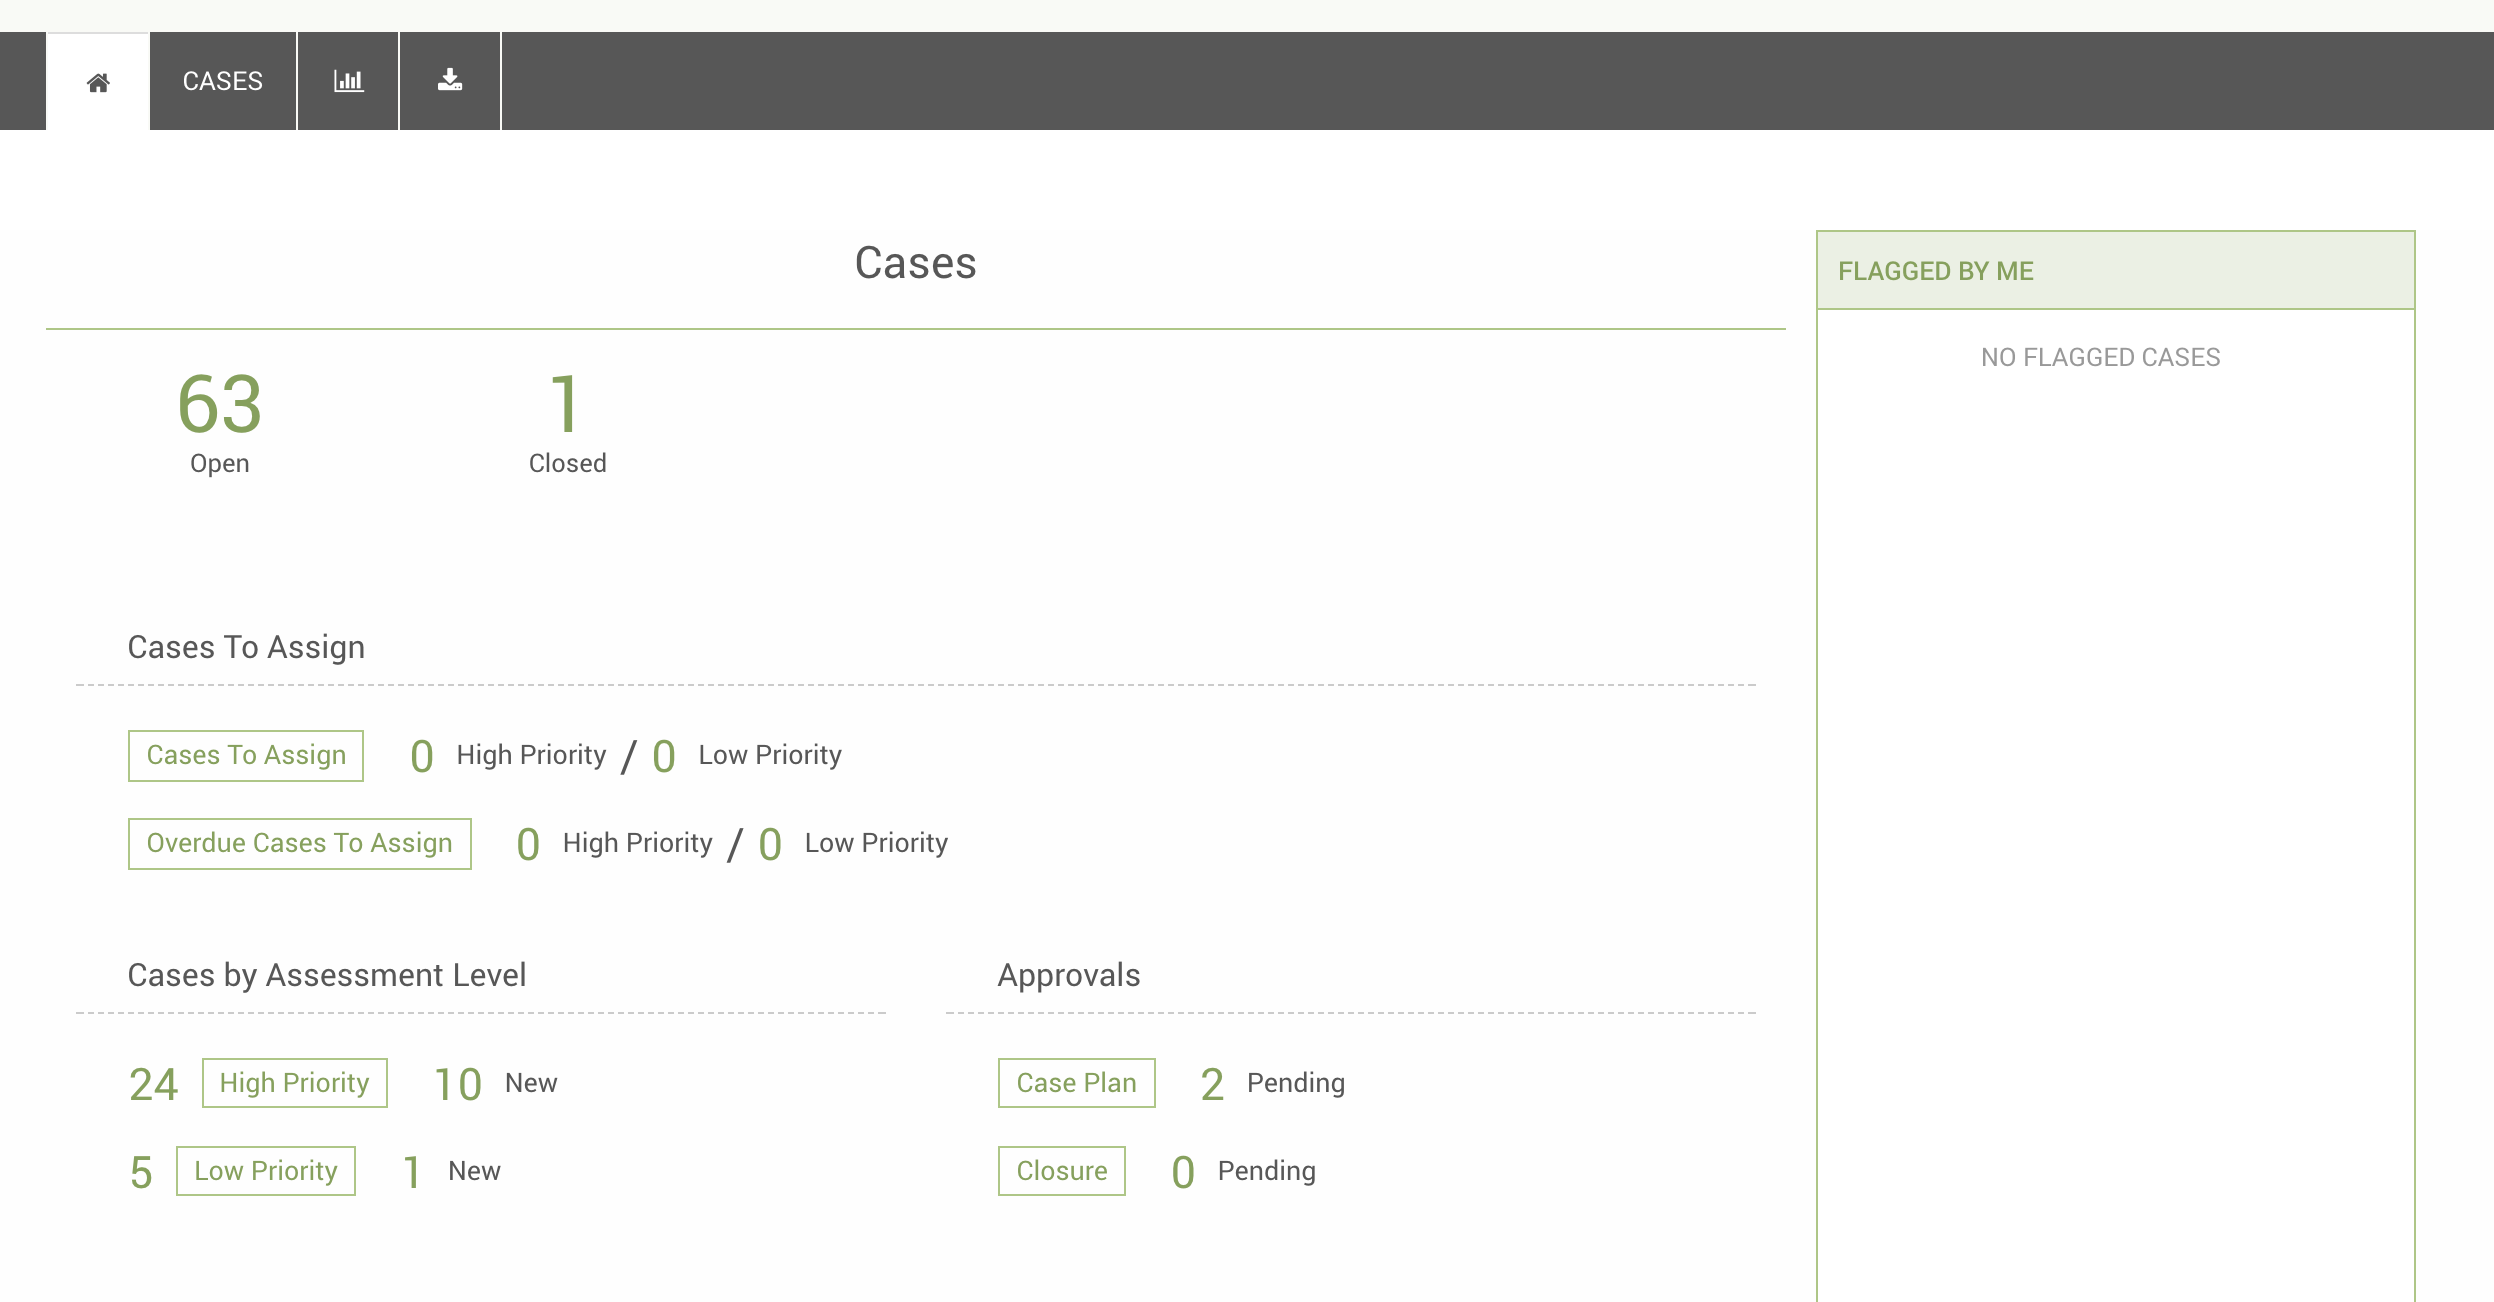
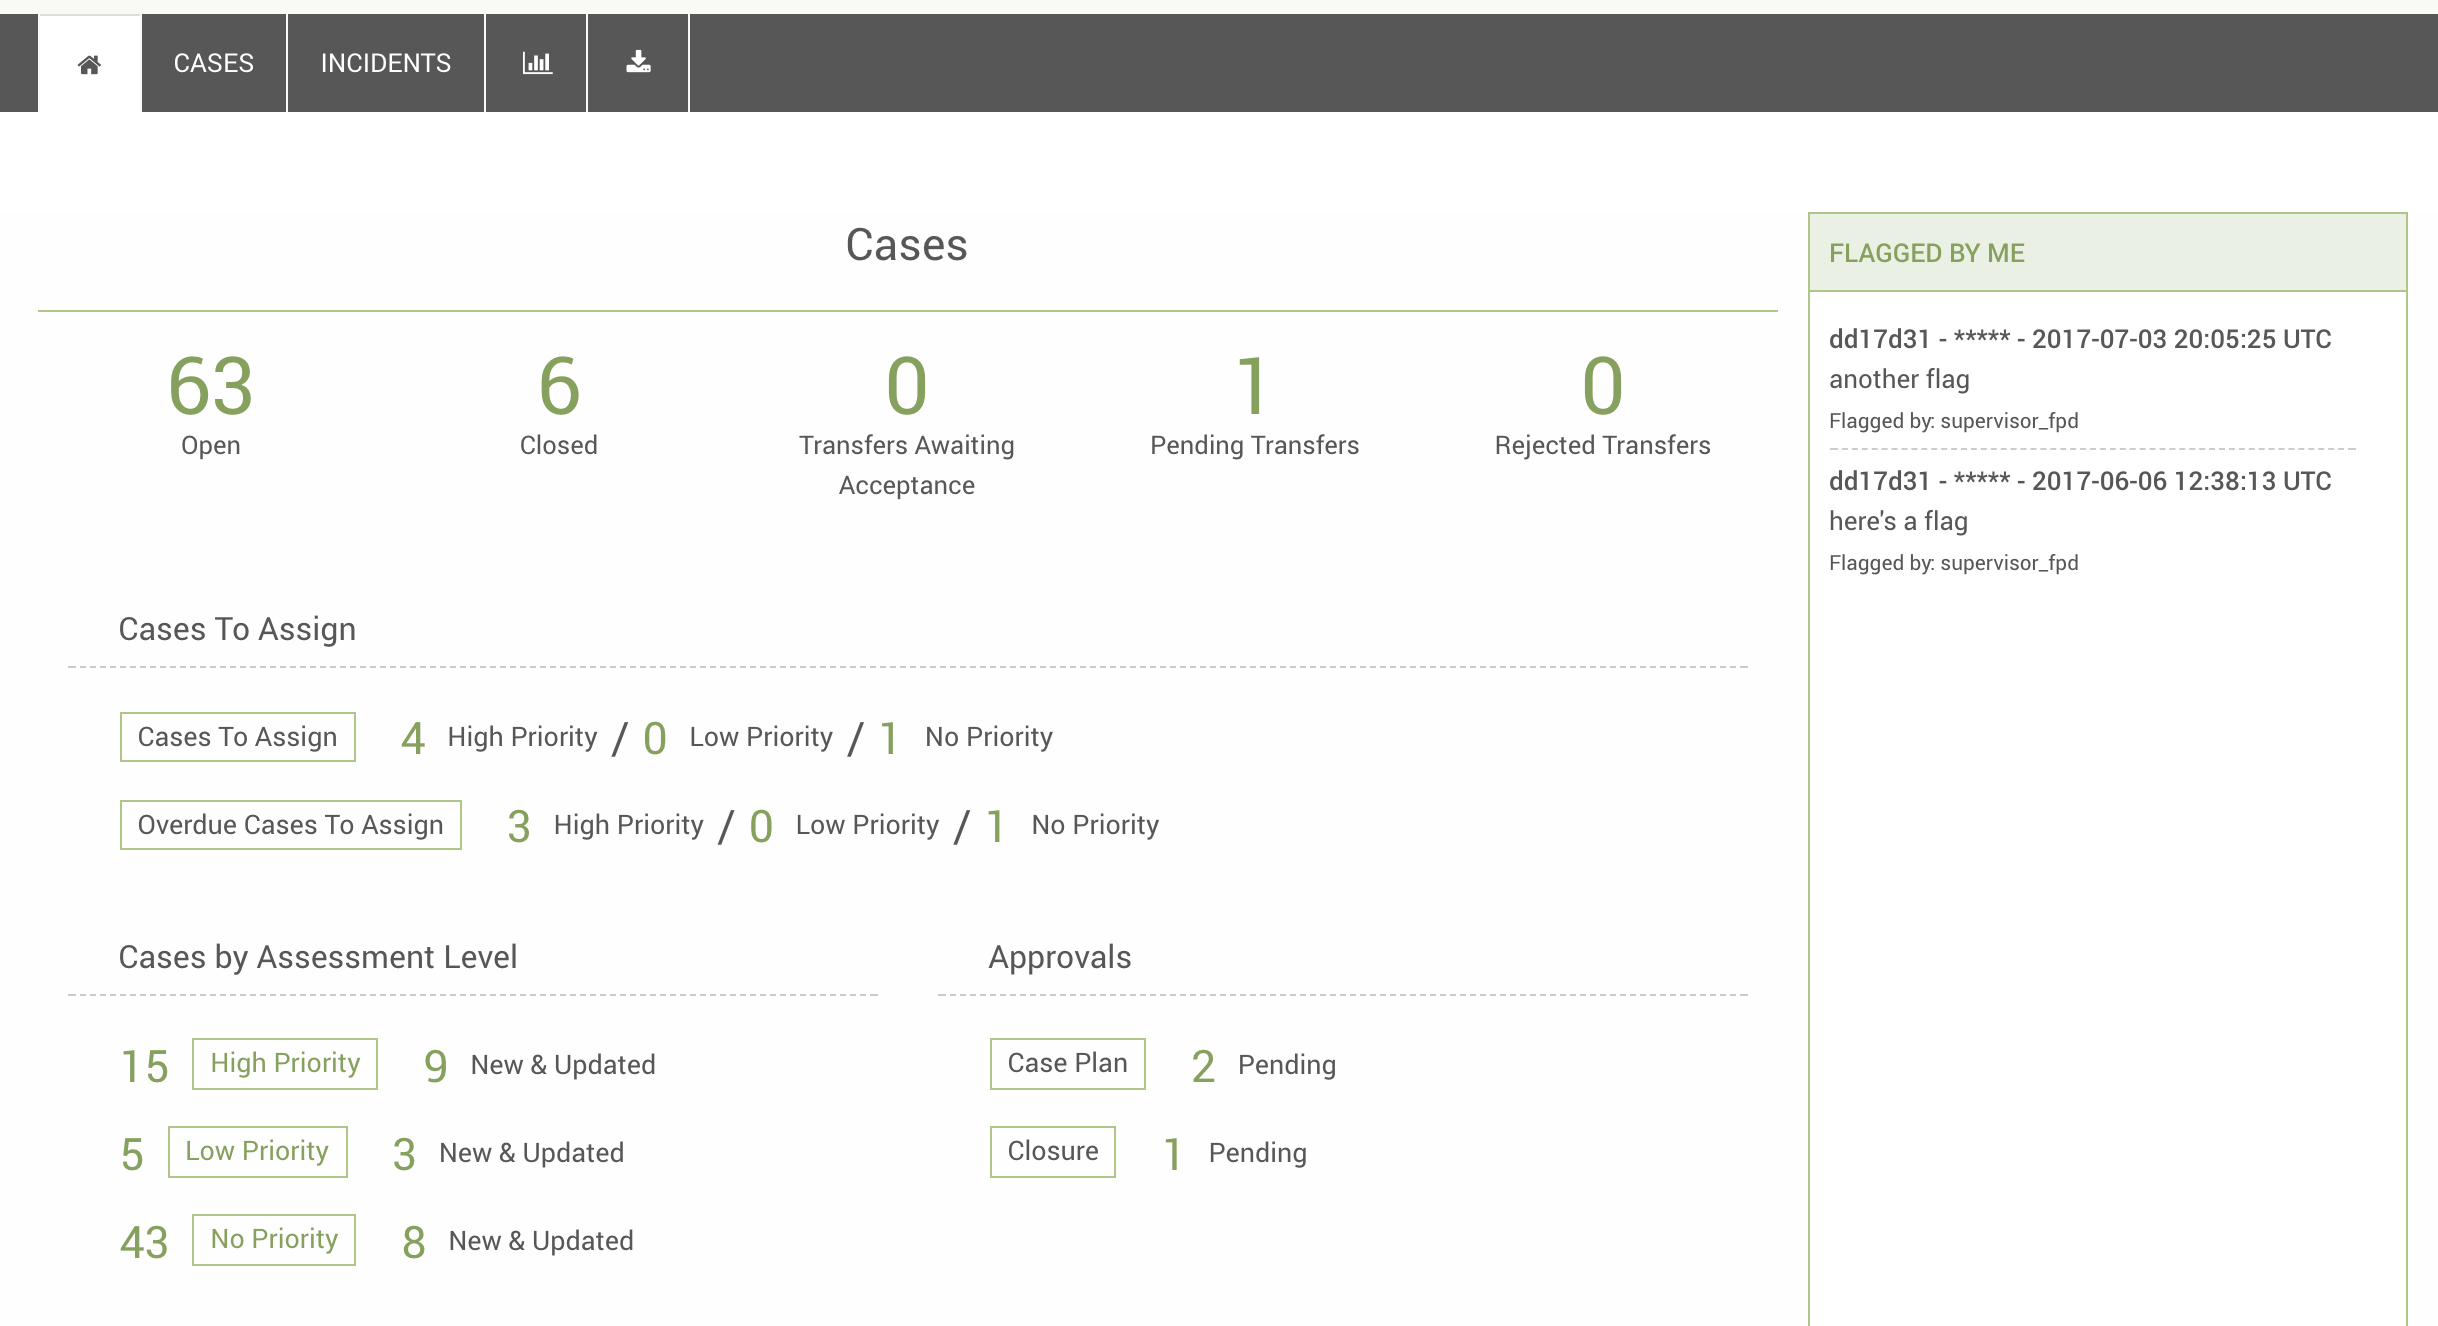
JOR-741: TSFV updates.

diff --git a/UsersGuide.md b/UsersGuide.md
@@ -37,9 +37,11 @@ If your user has access to cases through either the CP or GBV module, you will s
 
 ### Cases Dashboard
 
-The first example below is the basic Cases Dashboard. If you have any access to cases, but you are not a manager or an administrator, you will see this dashboard. The dashboard is divided into two main sections: one for cases, one for responses. The first section (first picture below) begins with a few key metrics: total cases, total new cases, transfers awaiting acceptance, new incidents, services implemented, total referrals, new referrals, pending transfers, and rejected transfers. \(In these metrics, “new” means anything which has not been edited since its creation.\) Below these key metrics lie two columns. The first shows the number of total and new cases, subdivided by assessment level. The second column shows all the number of pending, rejected, and new approvals, subdivided by the type of approval.
+The first example below is the basic Cases Dashboard. If you have any access to cases, but you are not a manager or an administrator, you will see this dashboard. The dashboard is divided into two main sections: one for cases, one for responses. The first section (first picture below) begins with a few key metrics: total cases, total new cases, transfers awaiting acceptance, new incidents, services implemented, total referrals, new referrals, pending transfers, and rejected transfers. \(In these metrics, “new” means anything which has not been edited since its creation, or since it was assigned to the current user, while "updated" means anything that has been changed since the user last saved the case. This latter situation may arise, for instance, if another user adds an incident to the case.\) Below these key metrics lie two columns. The first shows the number of total and new cases, subdivided by assessment level. The second column shows all the number of pending, rejected, and new approvals, subdivided by the type of approval.
 
 ![](/img/image90.png)
+
+For any of the numbers shown in this dashboard, clicking on the number will take you to a list of cases which meet the criteria represented by that number. So, for instance, if you click on the number "6" shown for "New & Updated" cases, you will be redirected to a list of all six cases which count as new and/or updated.
 
 The second portion of the cases dashboard outlines all responses for the user's cases, with a column for each response type. Within each column, responses are broken down by priority level, at which point numbers are given for total responses as well as those nearing or past their deadlines \(as determined by the timeframe specified for a given response\). Clicking any of these numbers will take the user to a list of the cases in question. This allows users to easily manage the most urgent tasks for their cases, in order of priority.
 
@@ -47,13 +49,17 @@ The second portion of the cases dashboard outlines all responses for the user's 
 
 ### Manager Dashboard
 
-The Manager Dashboard, meanwhile, appears if you have managerial tasks in your organization. This dashboard is similar to the cases dashboard, but includes the cases of the team you manage, and involves some tasks that managers have to perform. The first section, labeled "Cases," tells the manager how many of the team's cases are open or closed. Beneath that, a second section tells the manager how many cases need to be assigned, broken down by assessment level as well as due date. Next comes the third section, composed of two columns. In the first of these, figures are given for the number of cases with each assessment level, and for each of these classifications, how many of the cases are new. The second column, meanwhile, shows gives the number of pending approvals, broken down by approval type (in this case, case plan approval and closure approval).
+The Manager Dashboard, meanwhile, appears if you have managerial tasks in your organization. This dashboard is similar to the cases dashboard, but includes the cases of the team you manage, and involves some tasks that managers have to perform. The first section, labeled "Cases," tells the manager how many of the team's cases are open or closed, as well as the number of cases have pending transfer requests, or whose transfer requests have been approved or rejected. Beneath that, a second section tells the manager how many unassigned cases have each priority level. These cases are then further broken down by due date. 
+
+Next comes the third section, composed of two columns. In the first of these, figures are given for the number of cases with each priority level, and for each of these classifications, how many of the cases are new. The second column, meanwhile, gives the number of pending approvals, broken down by approval type (in this case, case plan approval and closure approval).
 
 ![](img/image73.png)
 
+Once again, clicking on any of the numbers shown in the dashboard will take you to a list of cases which meet the criteria represented by that number.
+
 ### Admin Dashboard
 
-Finally, you will see the Admin Dashboard upon login if your user’s role has access to all records in the system \(thus giving you an administrator’s functionality\). On this dashboard, you will see is a table of cases by district, with each row broken down into total open cases, cases created last week, cases created this week, cases closed last week, and cases closed this week. \(Here, a week is measured from midnight Monday morning to 11:59 Sunday night. This means that for a case to have been created this week, it must have been created during or since the immediately preceding Monday morning.\) As stated previously, if you see the Admin Dashboard, you will not see the Cases Dashboard or the Manager Dashboard, since one user can only have one of the case dashboards display on their Dashboard Page.
+Finally, you will see the Admin Dashboard upon login if your user’s role has access to all records in the system \(thus giving you an administrator’s functionality\). On this dashboard, you will see a table of cases by district, with each row broken down into total open cases, cases created last week, cases created this week, cases closed last week, and cases closed this week. \(Here, a week is measured from midnight Monday morning to 11:59 Sunday night. This means that for a case to have been created this week, it must have been created during or since the immediately preceding Monday morning.\) As stated previously, if you see the Admin Dashboard, you will not see the Cases Dashboard or the Manager Dashboard, since one user can only have one of the case dashboards display on their Dashboard Page.
 
 Flags are, once again, on the right. Like the Manager Dashboard, and for similar reasons, the Admin Dashboard only lists those cases which you have flagged.
 
@@ -217,7 +223,7 @@ Quick Search refers to the search field in the header navigation bar. From here 
 
 ## Searching for Records Owned By Others
 
-Depending on your configuration, some users may have the ability to search for records owned by other users. In this case, the records are only be visible in the list view. Clicking on a record in this view does not take the user to the view page for that record. Instead, the user can perform actions on the record from the list review.
+Depending on your configuration, some users may have the ability to search for records owned by other users. In this case, the records are only visible in the list view. Clicking on a record in this view does not take the user to the view page for that record. Instead, the user can perform actions on the record from the list review.
 
 ![](/img/image88.png)
 
@@ -225,9 +231,15 @@ To do this, go to the record list page, and search for your record using an id o
 
 ## Adding Incident to Case from List View
 
-Depending on configuration, a user may be able to add an incident to a case from the list view or when searching cases. To add an incident to a case, select your case's check box on the search results page, then, under the action button dropdown, select "Add Incident." You will see the following modal. Here, enter information on the incident you are adding, and then save.
+Depending on your configuration, a user may be able to add an incident to a case from the list view or when searching cases. To add an incident to a case, select your case's check box on the search results page, then, under the action button dropdown, select "Add Incident." You will see the following modal. Here, enter information on the incident you are adding, and then save.
 
 ![](/img/image89.png)
+
+## Adding Service Provision to Case from List View
+
+Depending on your configuration, a user may be able to add a service provision to a case from the list view or when searching cases. To add a service to a case, select your case's check box on the search results page, then, under the action button dropdown, select "Add Service Provision." You will see the following modal. Here, enter information on the service you are adding, and then save.
+
+![](/img/image102.png)
 
 # Exporting Information on Records
 
@@ -273,9 +285,21 @@ In certain data sets and forms, we find that information pertaining to an event 
 
 ## Alerts
 
-When an incident has been added to your case, you will see a small alert badge next to the incident subform. This helps users keep track of updates to a given case's situation and immediately undertake any necessary responses.
+Alerts appear in the case forms when an important change has been made to your case. One example of such a change is when an incident has been added to your case. In this situation, you will see a small alert badge next to the incident subform. This helps users keep track of updates to a given case's situation and immediately undertake any necessary responses.
 
 ![](/img/image95.png)
+
+There are two other situations which would cause an alert to appear: the addition of a service provision to your case, and an approval request being made on a case. In the first situation, if another user adds a service provision to your case, an alert will appear next to the Services form tab in the forms side bar. (Depending on your configuration, this form may also be called "Response Overview.")
+
+![](/img/image103.png)
+
+You may also see a message at the top of the form informing you of the reason for the alert.
+
+![](/img/image104.png)
+
+An alert may also appear on a case form if a request was recently requested for case plan, closure, or best-interest assessment approval. Whenever an approval is requested for one of these situations, an alert will appear next to the appropriate form tab: Services (also called Response Overview in some implementations) for case plan approval, Closure for closure approval, and BIA for best interest assessment approval.
+
+![](/img/image105.png)
 
 # Creating, Updating, or Editing a Case
 
@@ -389,6 +413,20 @@ Once you have clicked "refer" you will see the below modal. Once again, make sur
 Based on the deployment, you may have the ability to relinquish a case that has been referred to you. You can see if any cases have been referred to you on your dashboard. When you click on the Referrals and Transfers form for the case that has been referred to you, you will see a DONE button next to the referral that has been made to you. If you are done reviewing the case, you can click the done button. Once clicked, it will be removed from your case list and you will no longer have access to it.
 
 ![](img/image82.png)
+
+# Workflow Status
+
+Primero provides a flexible way of keeping track of a case's place in the child protection workflow. As it stands, a case can have one of a few standard statuses: "New," "Service Implemented," "Closed," and then a status associated with each of the various types of services (also called "responses" or "interventions," depending on your implementation). The workflow status is represented in the Workflow Status Bar. In the image below, there are five statuses, since a service can be classified as either an "Immediate Intervention" or a "Comprehensive Intervention."
+
+![](img/image82.png)
+
+In this situation, the case has a status of "Comprehensive Intervention." All cases start off as "New." Once a service is added, the case assumes a status associated with the most recent service's type. Clearly then, for this case, the most recent intervention was a "Comprehensive Intervention."
+
+![](img/image82.png)
+
+Once all services have been implemented, the case's status will switch to "Service Implemented." Finally, if a case is closed (using the "Case Status" input), the status of the case will change to "Closed."
+
+Once again, this case status, as represented in the Workflow Status Bar, helps keep track of the case's place in the Child Protection workflow. That being said, this cannot replace the robust human processes needed to ensure that cases are properly assessed and cared for. Please closely follow your particular program's Child Protection SoP's to ensure that best practices are followed in the handling of all cases.
 
 # Responses
 
